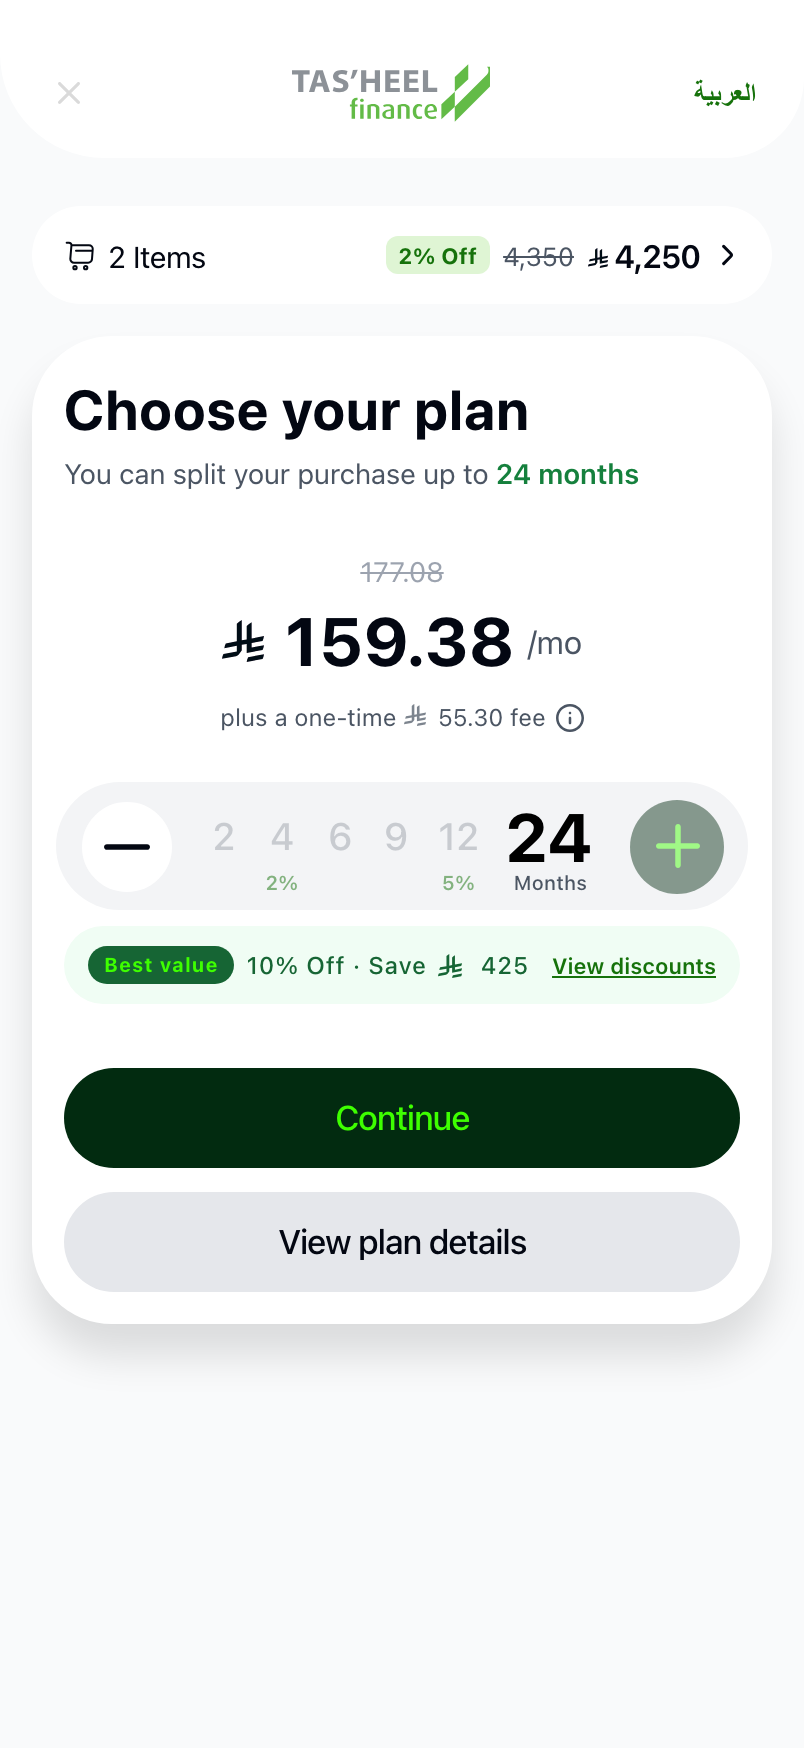
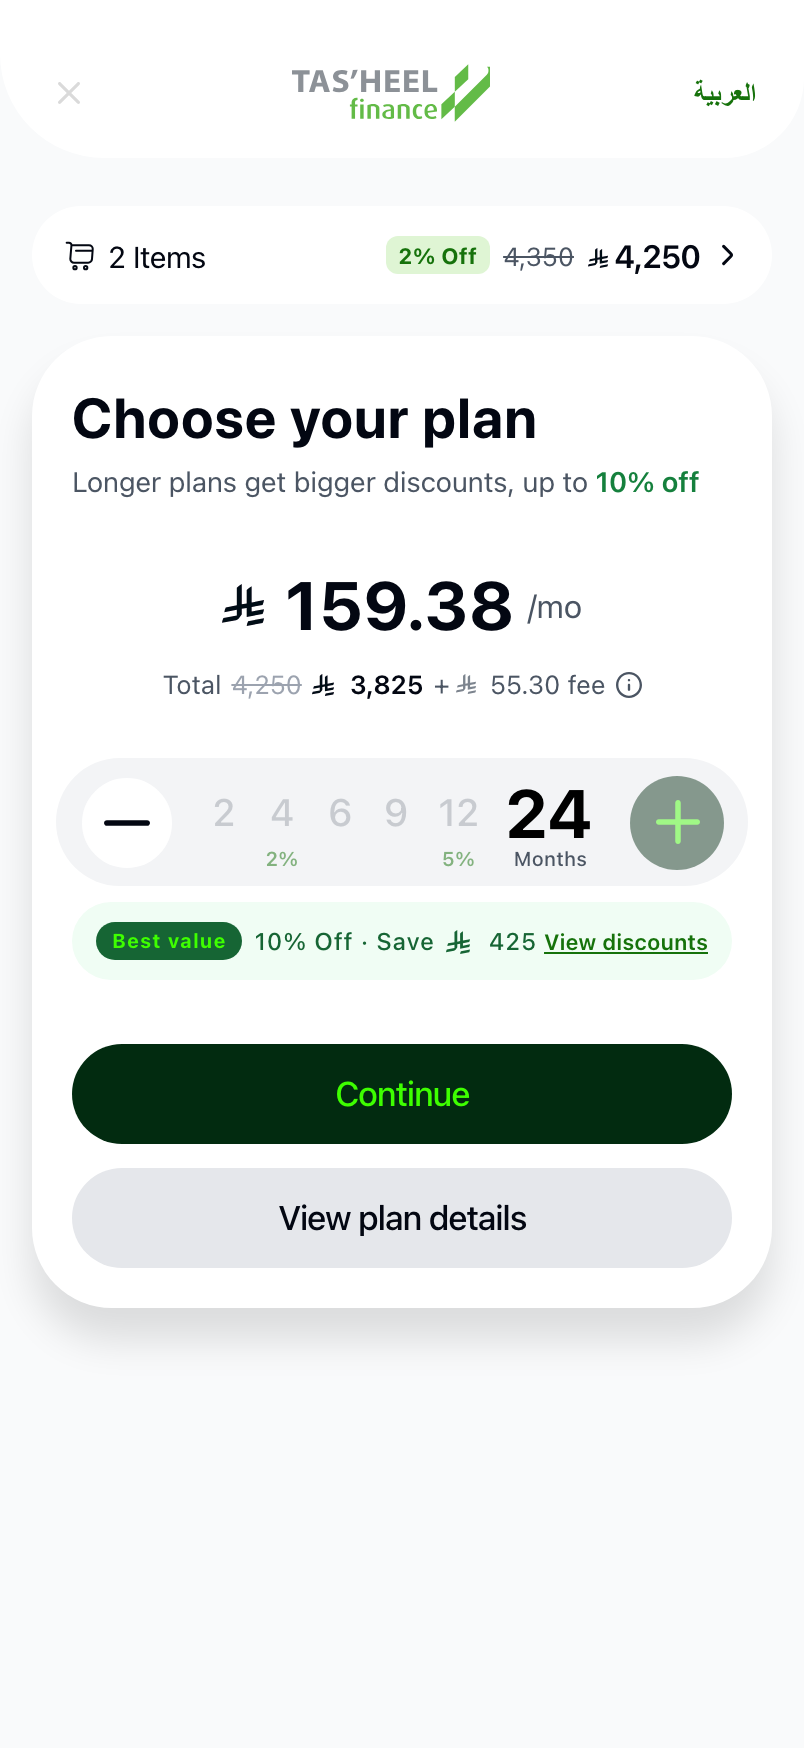
Move the discount anchor to the cart total and open up the plan card
The tier discount applies to the cart total, not the monthly, so the
strikethrough now lives there: "Total 4,250 -> 3,825 + 55.30 fee" under the
monthly hero, with the fee folded into the same line instead of its own row.
The subtitle states the value proposition outright: "Longer plans get bigger
discounts, up to 10% off" (rate derived from WC_BEST_TENURE).

More air: card padding 16 -> 20, section gap 24 -> 28, one less text row in
the hero block.

diff --git a/App.tsx b/App.tsx
@@ -1582,30 +1582,35 @@ function WcTenure({ setRoute, months, setMonths }: { setRoute: (r: RouteKey) => 
             <View style={styles.wcPlanCard}>
               <View style={{ gap: 6, width: '100%' }}>
                 <Text style={styles.wcPlanTitle}>Choose your plan</Text>
-                <Text style={styles.wcPlanSub}>You can split your purchase up to <Text style={styles.wcPlanSubStrong}>{maxTenure} months</Text></Text>
+                <Text style={styles.wcPlanSub}>Longer plans get bigger discounts, up to <Text style={styles.wcPlanSubStrong}>{Math.round(wcSavingRate(WC_BEST_TENURE) * 100)}% off</Text></Text>
               </View>
-              <View style={{ gap: 24, width: '100%', alignItems: 'center' }}>
+              <View style={{ gap: 28, width: '100%', alignItems: 'center' }}>
                 <FadeSwap swapKey={`plan-${months}`}>
                   <View style={styles.wcPlanHero}>
-                    {/* Anchor sits above the price, not beside it — one number owns
-                        the row, the old price reads as a quiet footnote. */}
-                    {wcPlanSaving(months) > 0 ? (
-                      <Text style={styles.wcPlanHeroWas}>{wcMoney(wcPlanBaseMonthly(months))}</Text>
-                    ) : null}
                     <View style={styles.wcPlanHeroRow}>
                       <Riyal size={21} />
                       <Text style={styles.wcPlanHeroAmount}>{wcMoney(wcPlanMonthly(months))}</Text>
                       <Text style={styles.wcPlanHeroPer}>/mo</Text>
                     </View>
-                    <View style={styles.wcPlanFeesRow}>
-                      <Text style={styles.wcPlanFees}>
-                        {fee === 0 ? 'No interest, no fees' : <>plus a one-time <Riyal size={11} color={muted} /> {wcMoney(fee)} fee</>}
-                      </Text>
-                      {fee > 0 ? (
-                        <Pressable testID="wc-fee-help" onPress={() => setSheet('fee')} hitSlop={10} accessibilityRole="button" accessibilityLabel={`Explain the ${months} month fee`}>
-                          <Image source={figmaImageSource('wcInfoCircle')} resizeMode="contain" accessibilityIgnoresInvertColors style={{ width: 14, height: 14 }} />
-                        </Pressable>
+                    {/* The tier discount applies to the cart total, so the anchor
+                        lives here: Total 4,250 -> 4,165, fee disclosed alongside. */}
+                    <View style={styles.wcPlanTotalRow}>
+                      <Text style={styles.wcPlanTotalLabel}>Total</Text>
+                      {wcPlanSaving(months) > 0 ? (
+                        <Text style={styles.wcPlanTotalWas}>{formatAmount(WC_DISCOUNTED_TOTAL)}</Text>
                       ) : null}
+                      <Riyal size={11} />
+                      <Text style={styles.wcPlanTotalAmount}>{wcSaving(wcPlanPayable(months))}</Text>
+                      {fee > 0 ? (
+                        <>
+                          <Text style={styles.wcPlanTotalFee}>+ <Riyal size={10} color={muted} /> {wcMoney(fee)} fee</Text>
+                          <Pressable testID="wc-fee-help" onPress={() => setSheet('fee')} hitSlop={10} accessibilityRole="button" accessibilityLabel={`Explain the ${months} month fee`}>
+                            <Image source={figmaImageSource('wcInfoCircle')} resizeMode="contain" accessibilityIgnoresInvertColors style={{ width: 13, height: 13 }} />
+                          </Pressable>
+                        </>
+                      ) : (
+                        <Text style={styles.wcPlanTotalFee}>· No fees</Text>
+                      )}
                     </View>
                   </View>
                 </FadeSwap>
@@ -4553,12 +4558,12 @@ const styles = StyleSheet.create({
   wcCartDiscountChip: { backgroundColor: '#dff5d4', borderRadius: 6, paddingHorizontal: 6, paddingVertical: 2 },
   wcCartDiscountChipText: { fontSize: 11, lineHeight: 15, fontWeight: '700', color: '#16720b' },
   wcCartWasPrice: { fontSize: 13, lineHeight: 18, color: muted, textDecorationLine: 'line-through' },
-  wcPlanCard: { width: '100%', backgroundColor: '#fff', borderRadius: 40, padding: 16, paddingTop: 20, gap: 32, alignItems: 'center', shadowColor: '#000', shadowOpacity: 0.12, shadowRadius: 20, shadowOffset: { width: 0, height: 16 } },
+  wcPlanCard: { width: '100%', backgroundColor: '#fff', borderRadius: 40, padding: 20, paddingTop: 24, gap: 32, alignItems: 'center', shadowColor: '#000', shadowOpacity: 0.12, shadowRadius: 20, shadowOffset: { width: 0, height: 16 } },
   wcPlanTitle: { fontSize: 28, lineHeight: 34, fontWeight: '700', color: text, letterSpacing: 0.36 },
   wcPlanSub: { fontSize: 14, lineHeight: 18, color: muted, letterSpacing: -0.08 },
   wcPlanSubStrong: { fontWeight: '600', color: '#15803d' },
-  // Figma 3529:83469 — the rail bleeds 4px past the card's 16px inset on each side.
-  wcStepperTrack: { alignSelf: 'stretch', marginHorizontal: -4, borderRadius: 999, backgroundColor: '#f3f4f6', paddingHorizontal: 12, paddingVertical: 7, flexDirection: 'row', alignItems: 'center', justifyContent: 'space-between' },
+  // Figma 3529:83469 — the rail bleeds past the card inset to its 334px width.
+  wcStepperTrack: { alignSelf: 'stretch', marginHorizontal: -8, borderRadius: 999, backgroundColor: '#f3f4f6', paddingHorizontal: 12, paddingVertical: 7, flexDirection: 'row', alignItems: 'center', justifyContent: 'space-between' },
   wcStepperMinus: { width: 47, height: 47, borderRadius: 99, backgroundColor: '#fff', borderWidth: 1, borderColor: borderSubtle, alignItems: 'center', justifyContent: 'center' },
   wcStepperPlus: { width: 47, height: 47, borderRadius: 99, backgroundColor: green, alignItems: 'center', justifyContent: 'center' },
   wcStepperValues: { flex: 1, flexDirection: 'row', alignItems: 'center', justifyContent: 'space-evenly', paddingHorizontal: 4 },
@@ -4590,7 +4595,11 @@ const styles = StyleSheet.create({
   wcNudge: { flexDirection: 'row', alignItems: 'center', gap: 6, paddingHorizontal: 12, paddingVertical: 6 },
   wcNudgeText: { fontSize: 12, lineHeight: 16, fontWeight: '600', color: greenBrand, letterSpacing: -0.08 },
   wcNudgeChevron: { fontSize: 14, lineHeight: 16, fontWeight: '600', color: greenBrand, marginTop: -1 },
-  wcPlanHeroWas: { fontSize: 14, lineHeight: 16, color: '#9ca3af', textDecorationLine: 'line-through', marginBottom: -4 },
+  wcPlanTotalRow: { flexDirection: 'row', alignItems: 'center', justifyContent: 'center', gap: 5 },
+  wcPlanTotalLabel: { fontSize: 13, lineHeight: 18, color: muted },
+  wcPlanTotalWas: { fontSize: 13, lineHeight: 18, color: '#9ca3af', textDecorationLine: 'line-through' },
+  wcPlanTotalAmount: { fontSize: 13, lineHeight: 18, fontWeight: '600', color: text },
+  wcPlanTotalFee: { fontSize: 13, lineHeight: 18, color: muted },
   wcSavingLink: { fontSize: 11, lineHeight: 18, fontWeight: '600', color: greenBrand, letterSpacing: -0.08, textDecorationLine: 'underline' },
   wcCtaDisabled: { backgroundColor: '#e5e7eb' },
   wcCtaDisabledText: { color: '#9ca3af' },
